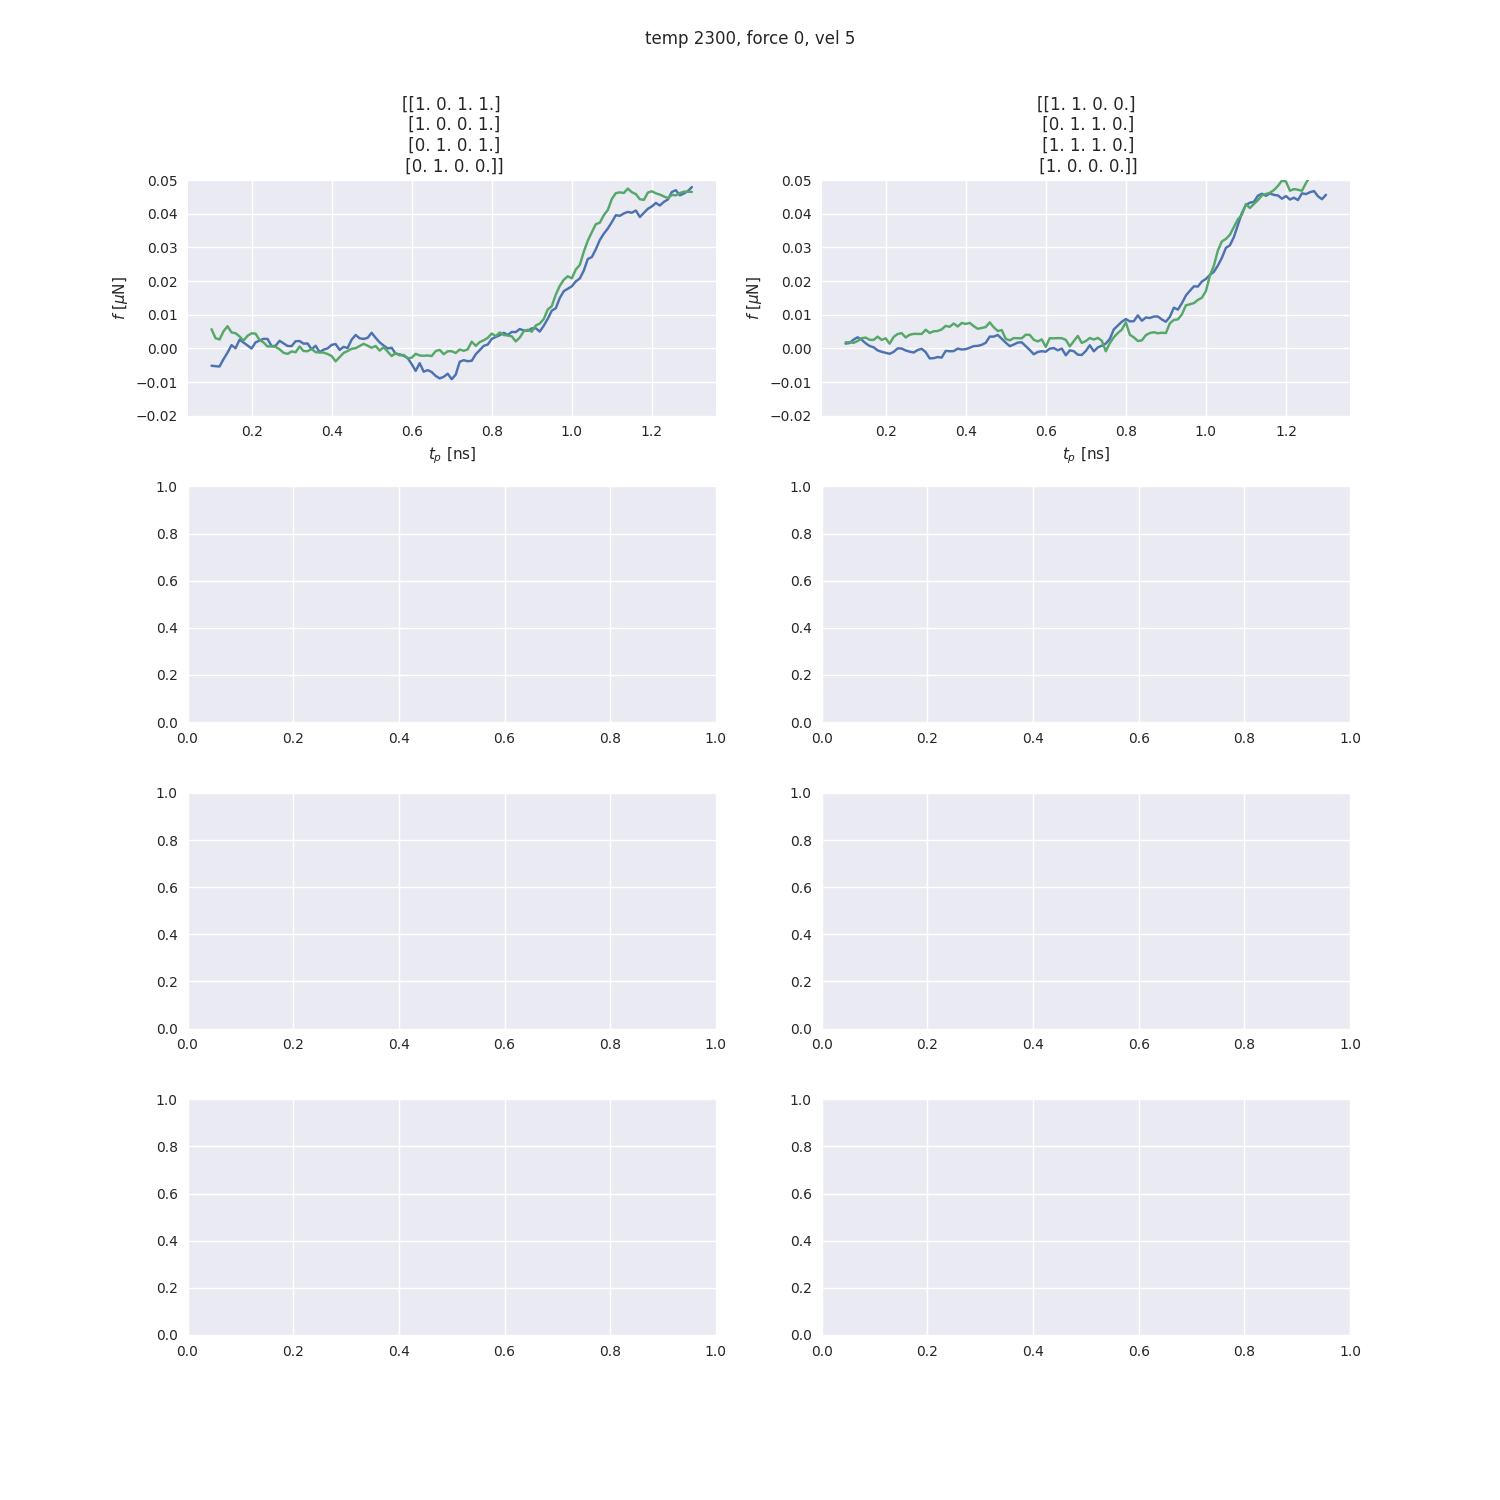
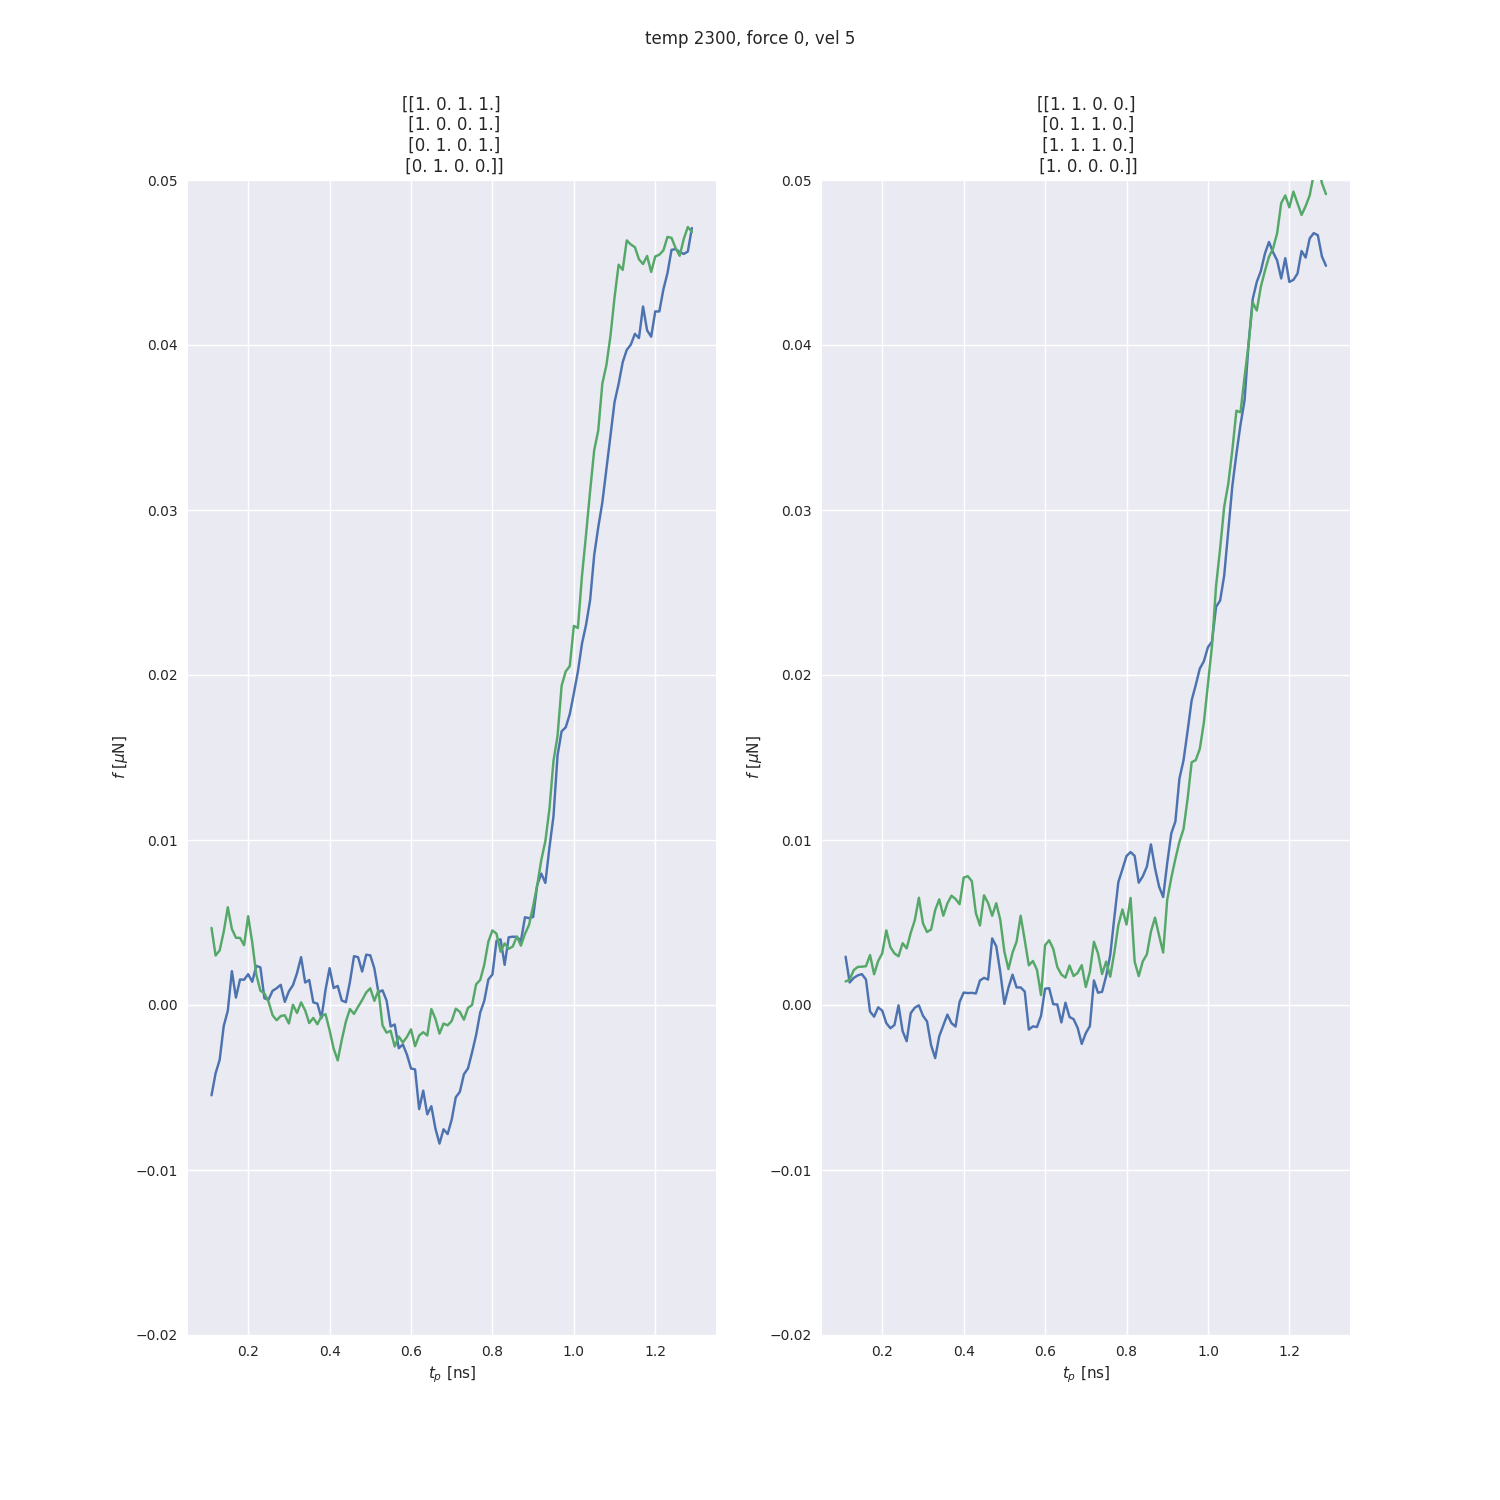
window 5500

diff --git a/python/post/get_load_curves.py b/python/post/get_load_curves.py
@@ -80,6 +80,7 @@ if __name__ == '__main__':
     time = 1400
     init_time = 0
     orientation = 110
+    window = 5500
     #initnum = 0
     force = 0
     #initseed = {0:(77222, 66232, 79443), 1:(29672, 40129), 2:(64364, 32077), 3:(33829, 84296), 
@@ -99,7 +100,7 @@ if __name__ == '__main__':
                     matches = re.findall('\d+', logfile)
                     outfile_lc = f'../../txt/load_curves/production/load_curves_temp{temp}_vel{vel}_force{force}_asp{asperities}_or{orientation}_initnum{initnum}_seed{see}_errgrid4_4.txt'
                     outfile_ms = f'../../txt/max_static/production/max_static_temp{temp}_vel{vel}_force{force}_asp{asperities}_or{orientation}_initnum{initnum}_seed{see}_errgrid4_4.txt'
-                    extract_load_curves(logfile, None, 0, window = 5000, outfile_load_curves = outfile_lc, outfile_max_static = outfile_ms)
+                    extract_load_curves(logfile, None, 0, window = window, outfile_load_curves = outfile_lc, outfile_max_static = outfile_ms)
         else:
             logfiles = f'../../simulations/sys_asp{asperities}_uc{uc}/production/sim_temp{temp}_force{force}_asp{asperities}_or{orientation}_time{time}_initnum{initnum}_seed{seed}_errgrid4_4/log.lammps'
             print(logfiles)
@@ -109,4 +110,4 @@ if __name__ == '__main__':
                 matches = re.findall('\d+', logfile)
                 outfile_lc = f'../../txt/load_curves/production/load_curves_temp{temp}_vel{vel}_force{force}_asp{asperities}_or{orientation}_initnum{initnum}_seed{seed}_errgrid4_4.txt'
                 outfile_ms = f'../../txt/max_static/production/max_static_temp{temp}_vel{vel}_force{force}_asp{asperities}_or{orientation}_initnum{initnum}_seed{seed}_errgrid4_4.txt'
-                extract_load_curves(logfile, None, 0, window = 1000, outfile_load_curves = outfile_lc, outfile_max_static = outfile_ms)
+                extract_load_curves(logfile, None, 0, window = window, outfile_load_curves = outfile_lc, outfile_max_static = outfile_ms)

diff --git a/python/plot/plot_load_curves.py b/python/plot/plot_load_curves.py
@@ -396,7 +396,7 @@ def plot_production(temp, vel, force, uc, asperities, time, orientation, grid, e
 
     template_aux = project_dir + 'simulations/sys_asp{}_uc{}/production/sim_temp{}_force{}_asp{}_or{}_time{}_initnum{}_seed{}_errgrid4_4/system_asp{}_or{}_uc{}_initnum{}_errgrid4_4_auxiliary.json'
 
-    fig, axs = plt.subplots(4,2, figsize = (15,15))
+    fig, axs = plt.subplots(1,2, figsize = (15,15))
     axs = axs.ravel()
     #initseed = {0:(77222, 66232, 79443), 1:(29672, 40129), 2:(64364, 32077), 3:(33829, 84296),
     #            4:(29082, 59000), 5:(16388, 65451), 6:(69759, 69759), 7:(65472, 62780)}
